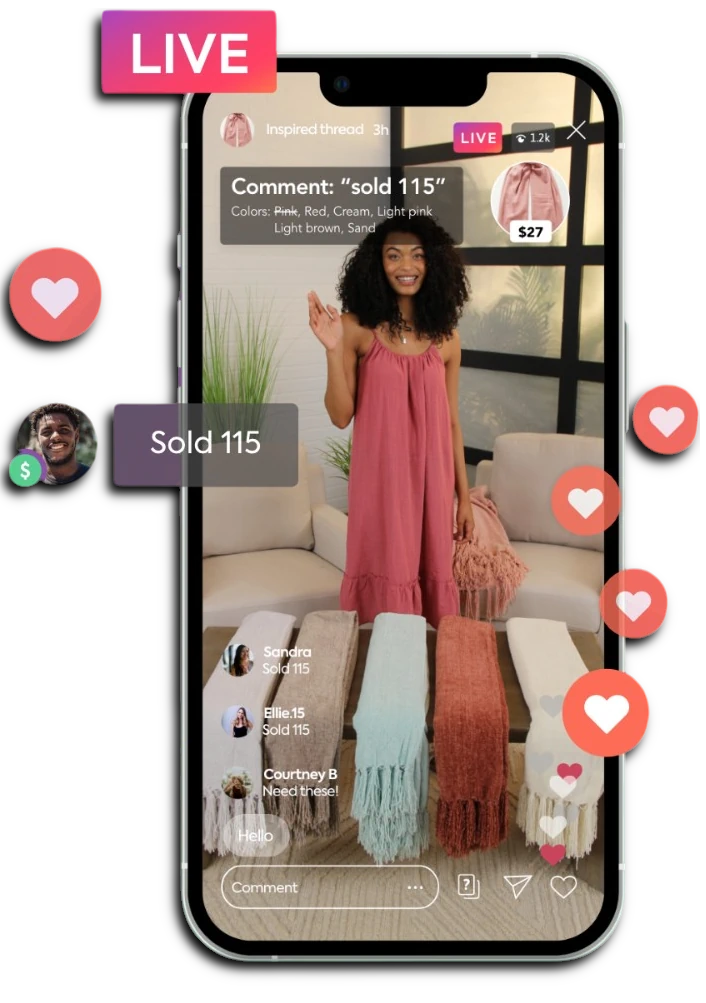
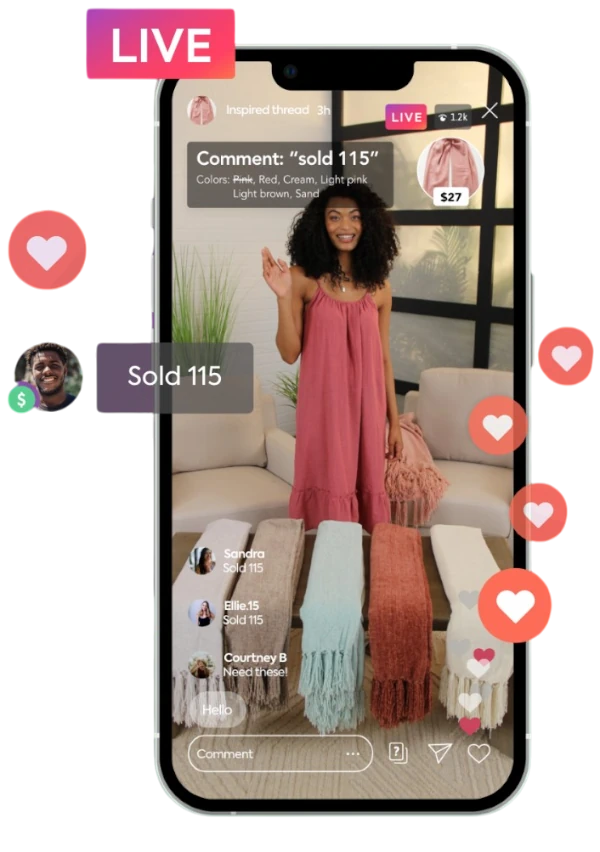
Added Drop Shadow and removed prebaked shadows from images

diff --git a/index.html b/index.html
@@ -78,7 +78,7 @@
           <img
             src="./Assets/hero-mobile-mockup.webp"
             alt="Live Shopping"
-            class="hero-image"
+            class="hero-image img-shadow"
           />
 
           <!-- Right Side: Text Content -->
@@ -126,7 +126,7 @@
         <img
           src="./Assets/s1-overlay.webp"
           alt="overlay image"
-          class="overlay"
+          class="overlay img-shadow"
         />
       </section>
 
@@ -261,7 +261,7 @@
           <img
             src="./Assets/s4-mobile-mockup.webp"
             alt="Phone Mockup with Cards"
-            class="section4-image"
+            class="section4-image img-shadow"
           />
 
           <div class="section4-content">
@@ -294,7 +294,7 @@
         <img
           src="./Assets/s4-overlay.webp"
           alt="overlay image"
-          class="overlay"
+          class="overlay img-shadow"
         />
       </section>
 

diff --git a/style.css b/style.css
@@ -52,6 +52,13 @@ p {
   box-shadow: 0px 4px 4px rgba(0, 0, 0, 0.4);
 }
 
+.img-shadow {
+  filter: drop-shadow(0px 4px 4px hsla(240, 100%, 3%, .8));
+  -webkit-filter: drop-shadow(0px 4px 4px hsla(240, 100%, 3%, .8));
+
+  /* background-color: red; */
+}
+
 
 .head {
   height: 10dvh;
@@ -535,7 +542,7 @@ footer {
 
   .section2-video {
     height: 30vh;
-    width: 100%;
+    /* width: 100%; */
     object-fit: cover;
     order: 1;
   }
